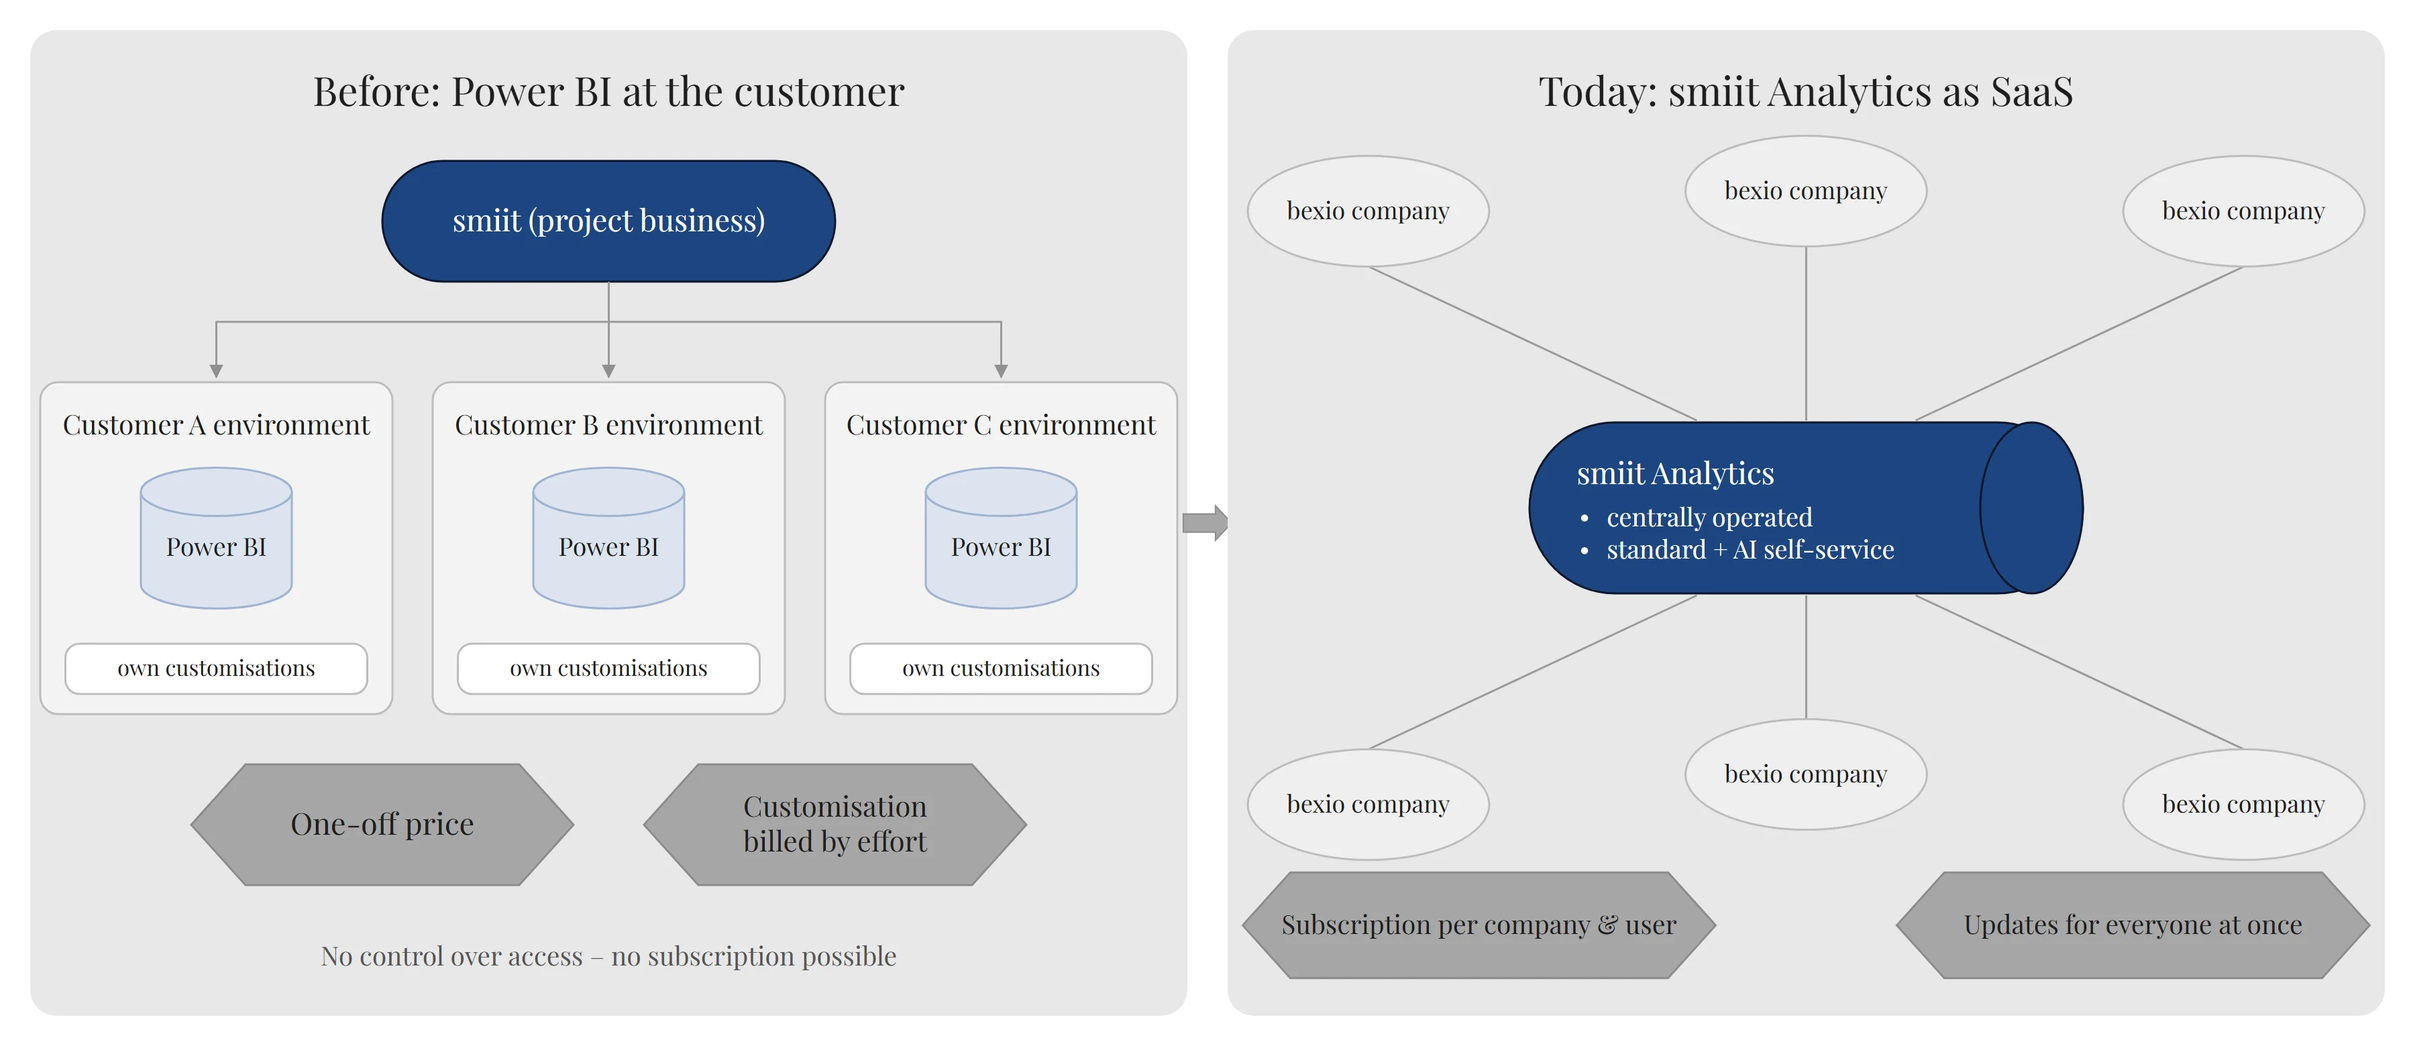
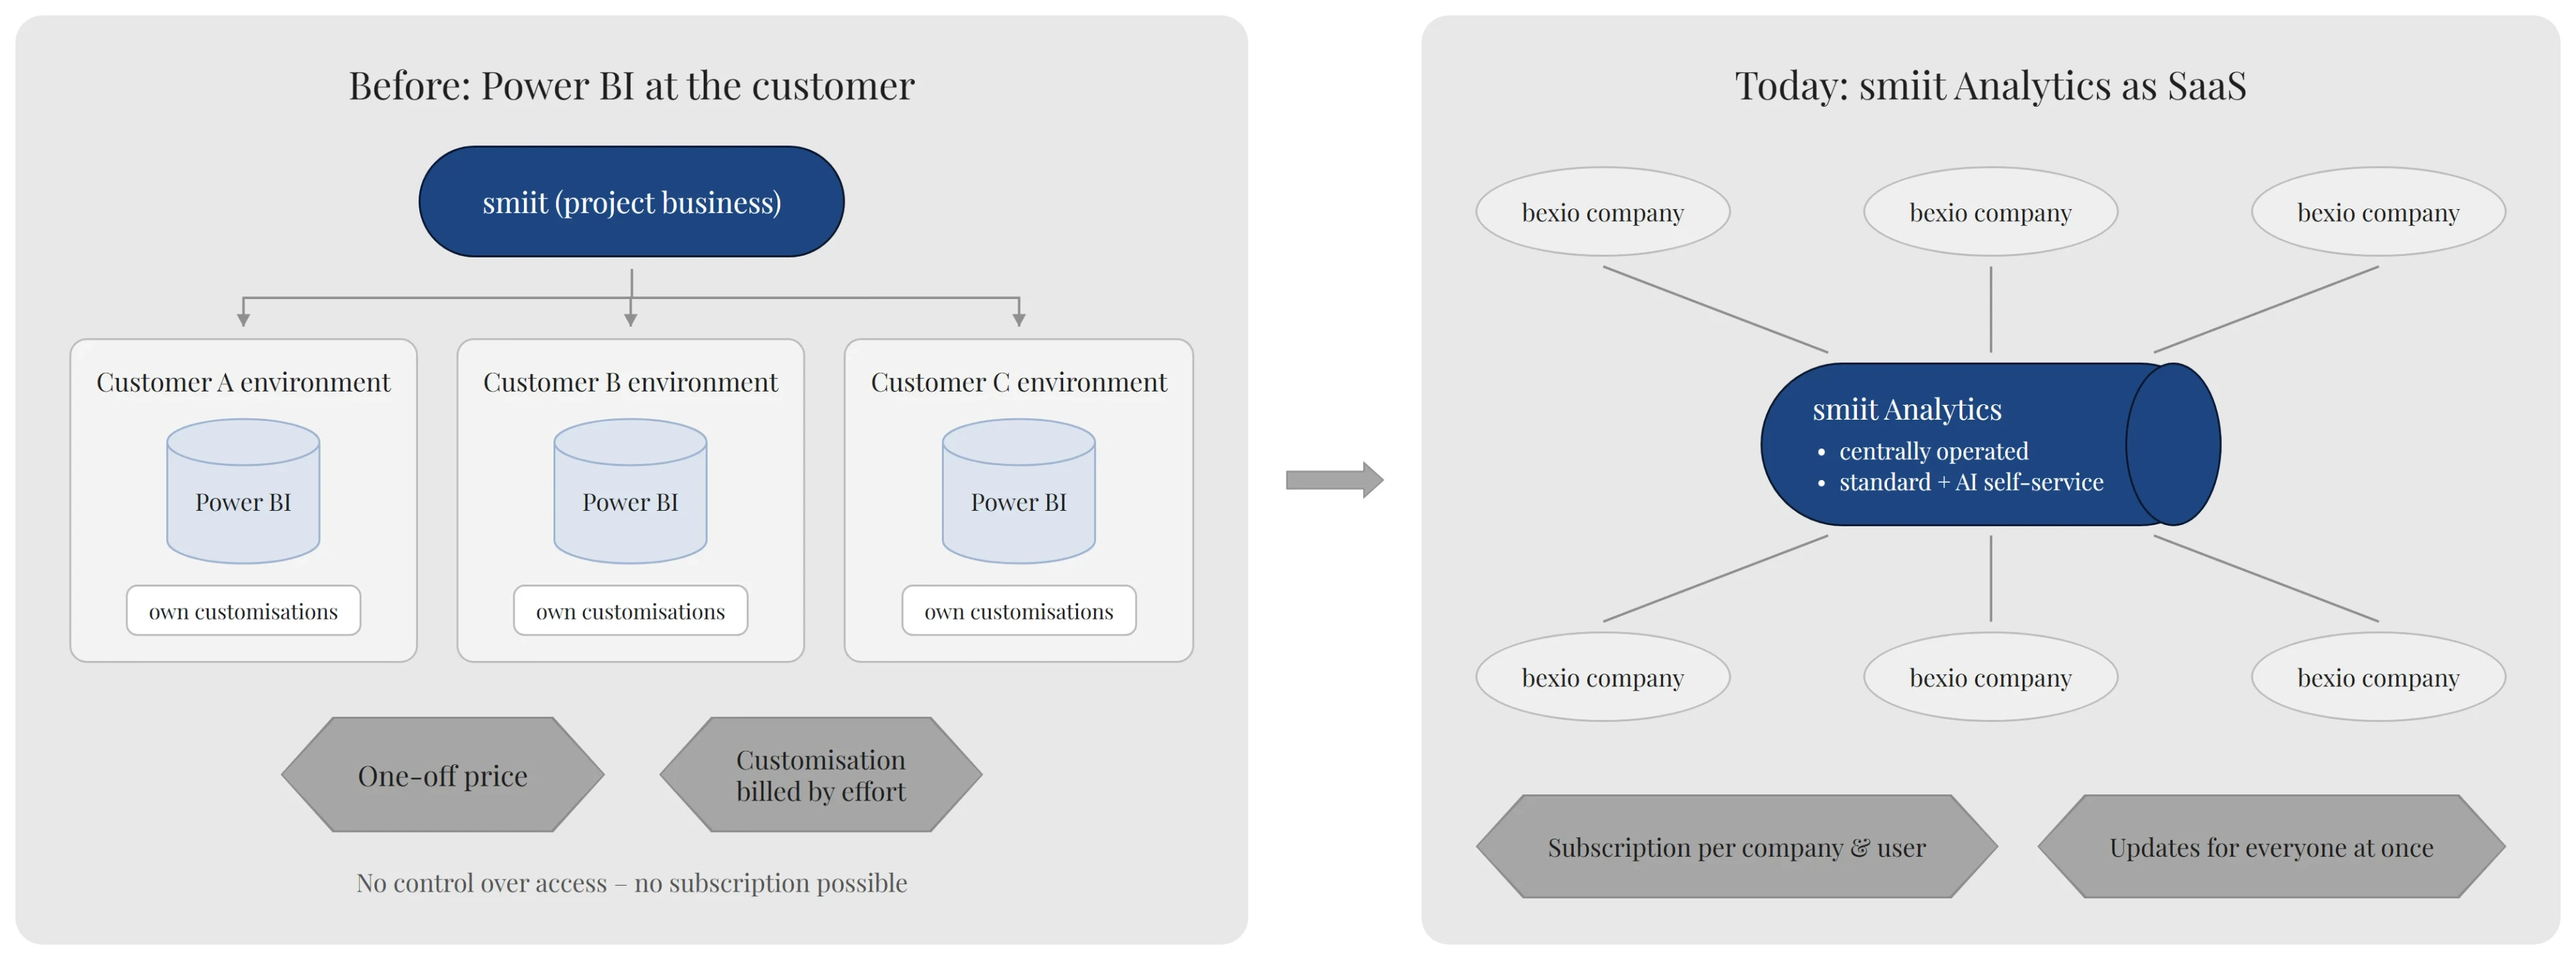
Give the business-model diagram more room
Re-laid out the before/after business-model diagram (DE + EN): the arrow
between the panels sits in its own gap instead of overlapping their edges,
customer boxes and hexagons get clearance from the panel edges, and the
connectors stop short of the shapes. Content unchanged.

diff --git a/content/blog/smiit-analytics-from-power-bi-to-saas.ts b/content/blog/smiit-analytics-from-power-bi-to-saas.ts
@@ -109,8 +109,8 @@ const smiitAnalyticsSaas: LocalizedBlogPost = {
       {
         type: "image",
         src: `${SA}/business-model.webp`,
-        width: 3600,
-        height: 1560,
+        width: 3509,
+        height: 1496,
         maxWidth: 1040,
         alt: "Vergleich der Betriebsmodelle: Bisher wurde Power BI in jeder Kundenumgebung einzeln eingerichtet und angepasst, abgerechnet per Einmalpreis und Aufwand. Heute bedient eine zentral betriebene SaaS-Plattform viele bexio-Firmen per Abo, mit Standard und KI-Selfservice.",
         caption: "Vom Projekt mit Produktetikett zur echten SaaS: Erst der zentrale Betrieb macht ein faires Abo und Updates für alle möglich.",
@@ -721,8 +721,8 @@ const smiitAnalyticsSaas: LocalizedBlogPost = {
       {
         type: "image",
         src: `${SA}/business-model-en.webp`,
-        width: 3600,
-        height: 1560,
+        width: 3840,
+        height: 1432,
         maxWidth: 1040,
         alt: "Comparison of operating models: previously, Power BI was set up and customised in each customer environment, billed via a one-off price and effort. Today, a centrally operated SaaS platform serves many bexio companies on subscription, with standard reports and AI self-service.",
         caption: "From a project with a product label to real SaaS: only central operation makes a fair subscription and updates for everyone possible.",
